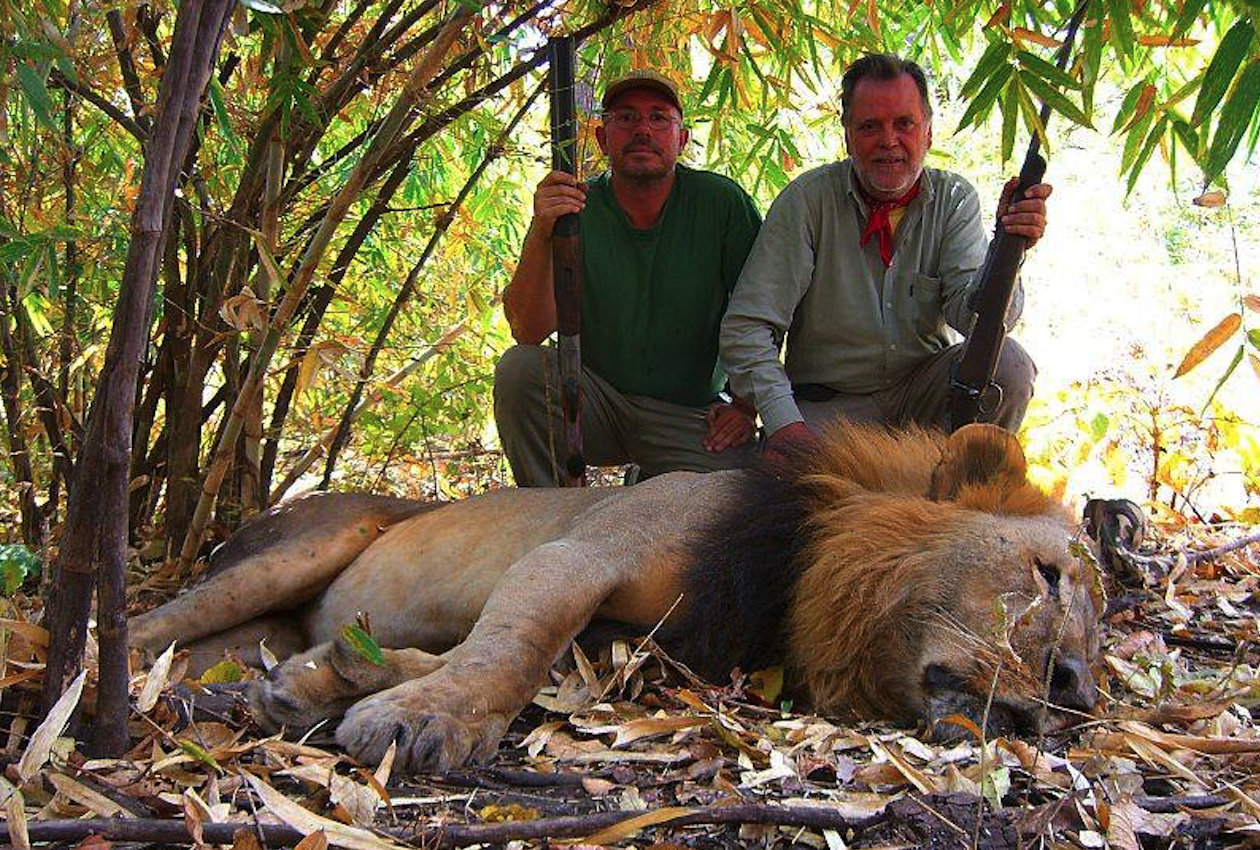
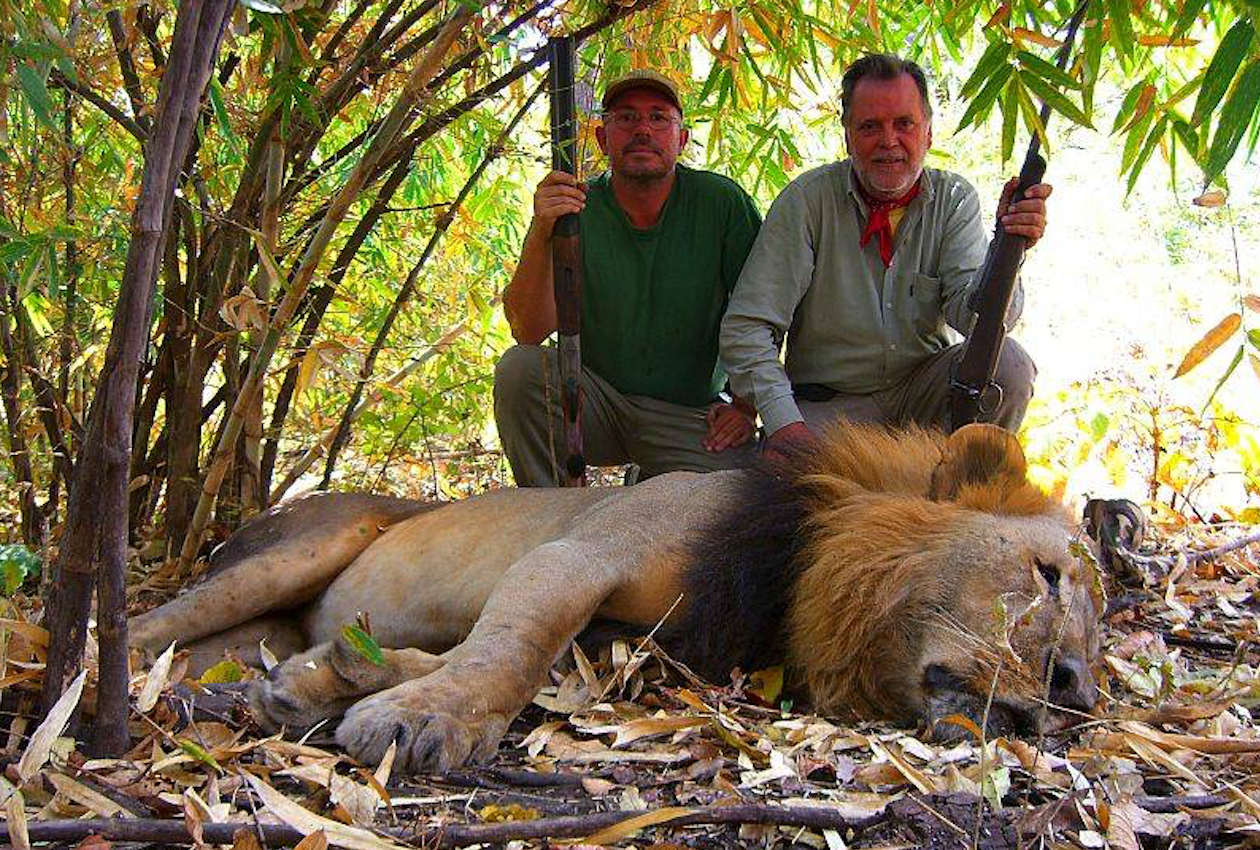
Changed to jpg

diff --git a/index.html b/index.html
@@ -42,21 +42,21 @@
             <h2 class="major">Gallery</h2>
             <p>Please visit us on <a target="_blank" href="https://www.facebook.com/majunesafaris/"
                                      style="color:#1877F2!important;">Facebook</a> for the latest photos.</p>
-            <img src="images/gallery/2.png" width="100%">
-            <img src="images/gallery/1.png" width="100%">
-            <img src="images/gallery/croc.png" width="100%">
-            <img src="images/gallery/3.png" width="100%">
-            <img src="images/gallery/4.png" width="100%">
-            <img src="images/gallery/5.png" width="100%">
-            <img src="images/gallery/6.png" width="100%">
-            <img src="images/gallery/7.png" width="100%">
-            <img src="images/gallery/8.png" width="100%">
-            <img src="images/gallery/9.png" width="100%">
-            <img src="images/gallery/11.png" width="100%">
-            <img src="images/gallery/12.png" width="100%">
-            <img src="images/gallery/13.png" width="100%">
-            <img src="images/gallery/lion.png" width="100%">
-            <img src="images/gallery/elephant.png" width="100%">
+            <img src="images/gallery/2.jpg" width="100%">
+            <img src="images/gallery/1.jpg" width="100%">
+            <img src="images/gallery/croc.jpg" width="100%">
+            <img src="images/gallery/3.jpg" width="100%">
+            <img src="images/gallery/4.jpg" width="100%">
+            <img src="images/gallery/5.jpg" width="100%">
+            <img src="images/gallery/6.jpg" width="100%">
+            <img src="images/gallery/7.jpg" width="100%">
+            <img src="images/gallery/8.jpg" width="100%">
+            <img src="images/gallery/9.jpg" width="100%">
+            <img src="images/gallery/11.jpg" width="100%">
+            <img src="images/gallery/12.jpg" width="100%">
+            <img src="images/gallery/13.jpg" width="100%">
+            <img src="images/gallery/lion.jpg" width="100%">
+            <img src="images/gallery/elephant.jpg" width="100%">
         </article>
 
         <!-- Rates -->
@@ -206,9 +206,9 @@
             </blockquote>
             <blockquote>Superb real hunting experience. Unforgettable!</blockquote>
 
-            <img src="images/lodge.png" width="100%">
+            <img src="images/lodge.jpg" width="100%">
 
-            <img src="images/truck.png" width="100%">
+            <img src="images/truck.jpg" width="100%">
 
         </article>
 
